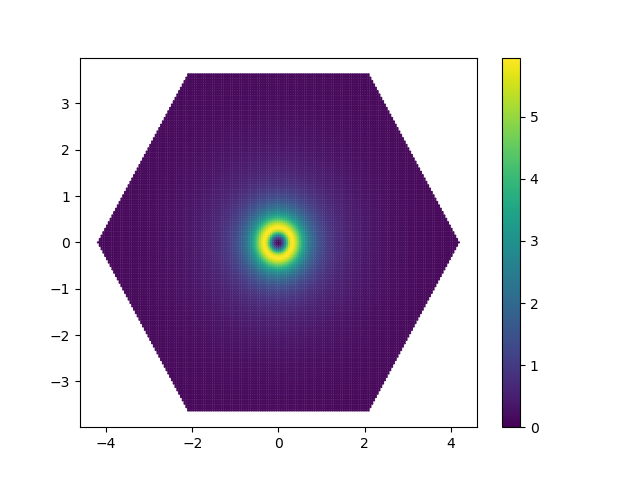
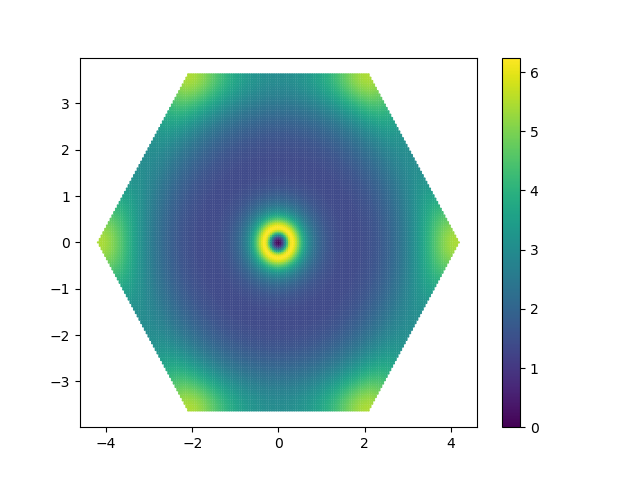
the complete work until now

diff --git a/Modular/AverageSF.py b/Modular/AverageSF.py
@@ -15,6 +15,7 @@ import gc
 import pandas as pd
 from matplotlib import cm
 from matplotlib import pyplot
+from scipy.optimize import curve_fit
 
 # Print iterations progress
 def printProgressBar (iteration, total, prefix = '', suffix = '', decimals = 1, length = 100, fill = '█', printEnd = "\r"):
@@ -464,12 +465,28 @@ def main() -> int:
     ds=Vol_rec/Npoints_int
     ome=np.linspace(0.0001, 2*np.pi,400 )
     dome=ome[1]-ome[0]
-    Ts=[1,2,5,10,100]
+    # Ts=[1,2,5,10,100]
+    Ts=[1,5,100]
     INTS=[]
+    
+    def ff(C,ome):
+        return C/(np.exp((ome-3)*10)+1)
+    
+    def ff2(ome,a,b,c):
+        return c/(np.exp(b*(((ome-a))))+1)
+    
+    
+    def ff3(ome,b,c):
+        return c*np.exp(-b*(ome**2))
+    
+    
     for T in Ts:
         chi_w=[]
-        SS=StructureFactor.StructureFac_fit_F(T)
-        # SS=StructureFactor.StructureFac_fit_no_diff_peak(T)
+        
+        S=[]
+        # SS=StructureFactor.StructureFac_fit_F(T)
+        SS=StructureFactor.StructureFac_fit_no_diff_peak(T)
+        # SS=StructureFactor.StructureFac_diff_peak_fit(T)
         # SS=StructureFactor.StructureFac_fit_no_diff_peak_cut(T,cut)
         # S1=SS.Dynamical_SF(KX,KY,0.1)
         # plt.scatter(KX,KY,c=S1, s=0.5)
@@ -483,33 +500,67 @@ def main() -> int:
         # plt.close()
         
         
+        
         for omega in ome:
             Siav=np.sum(SS.Dynamical_SF(KX,KY,omega))*ds/Vol_rec
-            # chi_w.append(T*(1-np.exp(-omega/T))*Siav)
-            chi_w.append(Siav)
-            
-            
+            chi_w.append(T*(1-np.exp(-omega/T))*Siav)
+            # chi_w.append(omega*Siav)
+            # chi_w.append(Siav)
+            S.append(Siav)
+        fac=np.sum(S)*dome
+        print(".......",fac,fac/3,dome)
+        cons=np.ones(200)
+        iii=70
+        ii=200
         if T<50:
-            plt.plot(ome, chi_w, color=cm.hot(T/15), label='T='+str(T), lw=3)
+            # m=(chi_w[iii]-chi_w[0])/(ome[iii]-ome[0])
+            plt.plot(ome, chi_w, color=cm.hot(T/15), label='T='+str(T), lw=1)
+            # popt, pcov = curve_fit(ff2, ome, S)
+            popt, pcov = curve_fit(ff3, ome, S)
+            print('the optimal paramss are',popt)
+            # plt.plot(ome, ff3(ome,popt[0],popt[1]), color=cm.hot(T/15), label='T='+str(T), lw=1, ls='--')
+            # plt.plot(ome, ome*ff3(ome,popt[0],popt[1]), color=cm.hot(T/15), label='T='+str(T), lw=1, ls='--')
+            plt.plot(ome, T*(1-np.exp(-ome/T))*ff3(ome,popt[0],popt[1]), color=cm.hot(T/15), label='T='+str(T), lw=1, ls='--')
+           
+            
+            # plt.plot(ome, T*(1-np.exp(-ome/T))*ff2(ome,popt[0],popt[1],popt[2]), color=cm.hot(T/15), label='T='+str(T), lw=1, ls='--')
+            # plt.plot(ome, ome*ff2(ome,popt[0],popt[1],popt[2]), color=cm.hot(T/15), label='T='+str(T), lw=1, ls='--')
+            # plt.plot(ome, ff2(ome,popt[0],popt[1],popt[2]), color=cm.hot(T/15), label='T='+str(T), lw=1, ls='--')
+
         if T>50:
-            plt.plot(ome, chi_w, color=cm.hot(11/15), label='T='+str(T), lw=3)
-        
+            # m=(chi_w[iii]-chi_w[0])/(ome[iii]-ome[0])
+            plt.plot(ome, chi_w, color=cm.hot(11/15), label='T='+str(T), lw=1)
+            # popt, pcov = curve_fit(ff2, ome, S)
+            popt, pcov = curve_fit(ff3, ome, S)
+            print('the optimal paramss are',popt)
+            # plt.plot(ome, ff3(ome,popt[0],popt[1]), color=cm.hot(11/15), label='T='+str(T), lw=1, ls='--')
+            # plt.plot(ome, ome*ff3(ome,popt[0],popt[1]), color=cm.hot(11/15), label='T='+str(T), lw=1, ls='--')
+            plt.plot(ome, T*(1-np.exp(-ome/T))*ff3(ome,popt[0],popt[1]), color=cm.hot(11/15), label='T='+str(T), lw=1, ls='--')
+            
+            # plt.plot(ome, T*(1-np.exp(-ome/T))*ff2(ome,popt[0],popt[1],popt[2]), color=cm.hot(11/15), label='T='+str(T), lw=1, ls='--')
+            # plt.plot(ome, ome*ff2(ome,popt[0],popt[1],popt[2]), color=cm.hot(11/15), label='T='+str(T), lw=1, ls='--')
+            # plt.plot(ome, ff2(ome,popt[0],popt[1],popt[2]), color=cm.hot(11/15), label='T='+str(T), lw=1, ls='--')
+
         INTS.append(np.sum(chi_w)*dome)
+        
+        print(fac,np.sum(chi_w)*dome, np.sum(ff(fac/3,ome))*dome, np.sum(ff3(ome,popt[0],popt[1]))*dome, "the total weight")
         
     # plt.ylabel(r'$\langle S_{\overline{D}}(q,\omega)-S_D(q,\omega)\rangle_q$')
     # plt.ylabel(r'$\langle S(q,\omega)\rangle_q$')
-
+    plt.axvline(ome[ii])
     plt.ylabel(r'$\langle S_{ND}(q,\omega)\rangle_q $', size=20)
     plt.xlabel(r"$\omega/J$", size=20)
     plt.xticks(size=20)
     plt.yticks(size=20)
     pyplot.locator_params(axis='y', nbins=5)
     pyplot.locator_params(axis='x', nbins=7)
-    plt.legend(prop={'size': 15}, loc=4)
+    # plt.legend(prop={'size': 15}, loc=4)
     plt.tight_layout()
-    plt.savefig("../analysis/imgs/fig3c.png")
+    plt.savefig("../analysis/imgs/test2.png")
     plt.close()
     
+    
+    print(INTS)
     plt.plot(Ts, INTS)
     plt.savefig("tempdep_SF_INT.png")
     plt.close()
